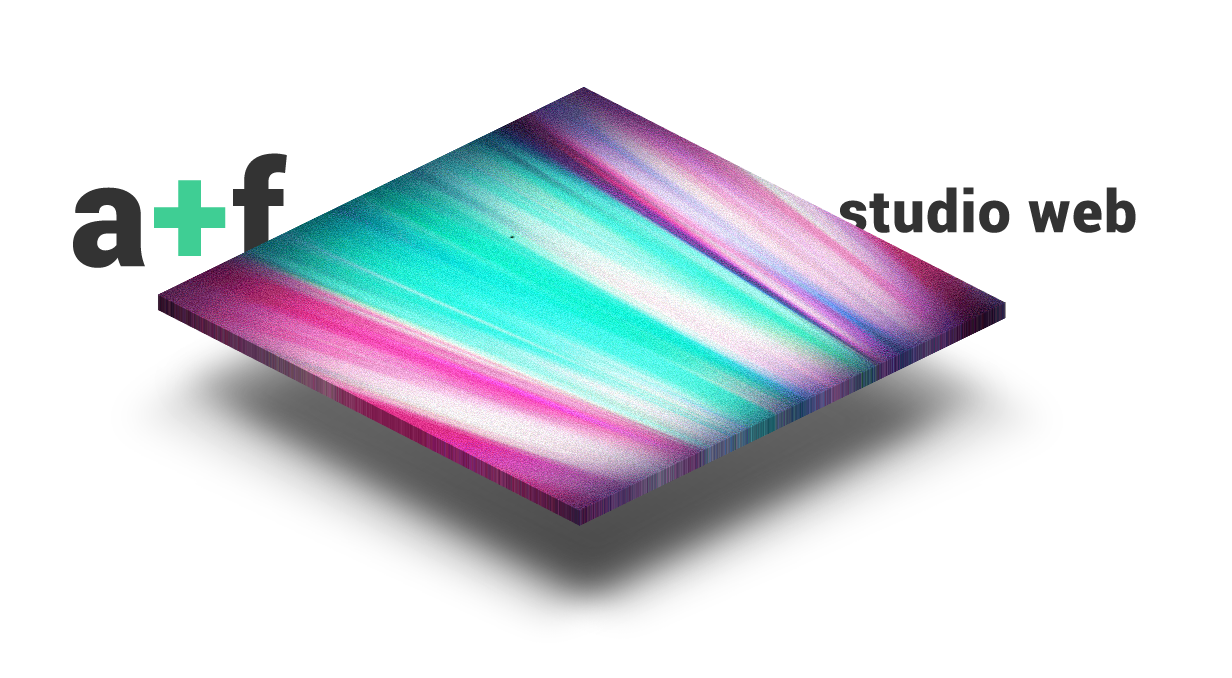
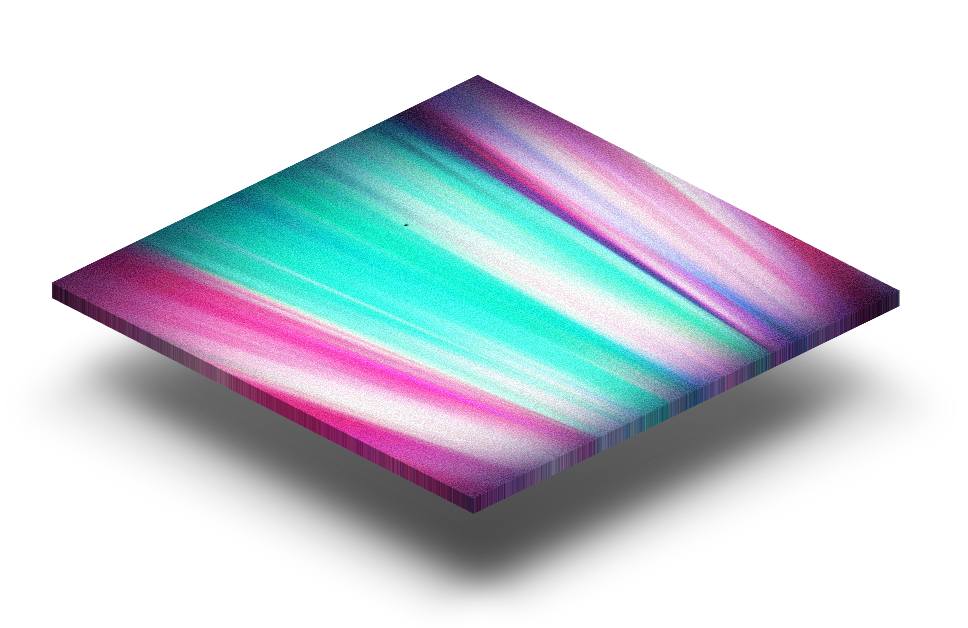
uui

diff --git a/css/bundle-sass.css b/css/bundle-sass.css
@@ -1,1 +1,1 @@
-header h1,header h1 span,header span.title{transition:all .4s ease-in}#contact,footer{text-align:center}#contact #contact-form-btn:hover,#contact ul li a:hover{font-family:KatanasEdge}header{position:fixed;background:0 0;z-index:999999;width:100%;top:0;left:0;right:0;margin:auto;padding:20px 60px}header h1{opacity:0;font-size:4rem;margin-top:60px;margin-bottom:0;line-height:.6}@media (max-width:620px){header{padding:20px 0}header h1{font-size:3rem;margin-top:20px}}header h1 span{color:#3FCE94}header h1 a:hover{color:#333!important}header span.title{display:none;color:#333;font-size:50%;vertical-align:middle}#info,#savoir-faire{height:100vh;width:80%;margin:auto;position:relative}#info .info-wrapper,#savoir-faire .info-wrapper{display:-ms-flexbox;display:flex;-ms-flex-pack:distribute;justify-content:space-around}#info,#portfolio,#savoir-faire{display:none}#info .info-wrapper article,#savoir-faire .info-wrapper article{width:30%}#info .info-wrapper article p,#savoir-faire .info-wrapper article p{font-size:1.2vw;line-height:1.4}@media (max-width:768px){#info,#savoir-faire{height:auto}#info .info-wrapper,#savoir-faire .info-wrapper{-ms-flex-direction:column;flex-direction:column}#info .info-wrapper article,#savoir-faire .info-wrapper article{width:100%}#info .info-wrapper article p,#savoir-faire .info-wrapper article p{font-size:1rem;float:none;width:100%}}#info .info-wrapper article p span,#savoir-faire .info-wrapper article p span{font-size:1.4vw;color:#3FCE94}@media (max-width:768px){#info .info-wrapper article p span,#savoir-faire .info-wrapper article p span{font-size:1rem}}#info .info-wrapper article p span.green,#savoir-faire .info-wrapper article p span.green{font-size:1.4vw;color:#3FCE94;background:0 0;padding:0;float:none}#contact h4,#info .info-wrapper article h4,#savoir-faire .info-wrapper article h4,body,html{color:#333}#info .info-wrapper article:last-child,#savoir-faire .info-wrapper article:last-child{margin-top:25vh}@media (max-width:768px){#info .info-wrapper article p span.green,#savoir-faire .info-wrapper article p span.green{font-size:1rem}#info .info-wrapper article h4,#savoir-faire .info-wrapper article h4{width:100%}#info .info-wrapper article:last-child,#savoir-faire .info-wrapper article:last-child{margin-top:0}}#contact,#portfolio,main{margin:auto}#portfolio{width:80%;position:relative}#portfolio div.row{display:-ms-flexbox;display:flex;-ms-flex-pack:justify;justify-content:space-between}#portfolio div.row article{width:30%}#portfolio div.row article h5{font-size:1.2vw}#portfolio div.row article h5 span{font-weight:400;display:inline-block}@media (max-width:768px){#portfolio div.row{-ms-flex-direction:column;flex-direction:column}#portfolio div.row article{width:100%}#portfolio div.row article h5{font-size:1rem}#portfolio div.row article h5 span{font-size:.8rem}}#portfolio div.row article img{width:100%}@media (max-width:768px) and (orientation:landscape){#portfolio div.row article img{width:70%}}#portfolio div.row article:nth-child(even){padding-top:20vh}footer{display:none;font-size:.7rem;position:absolute;left:0;bottom:20px;width:100%}#contact{display:none}#contact .parallax{height:100%;position:absolute}#contact h4{font-size:3vw}#contact ul{font-size:2.5vw;line-height:1.5}@media (max-width:768px){#portfolio div.row article:nth-child(even){padding-top:0}#contact ul{font-size:1rem}}#contact ul li:last-child{font-size:80%}#contact #contact-form-btn{display:none;font-size:2rem;background:#333;color:#3FCE94;padding:4px 10px;margin-top:40px}@media (max-width:768px){#contact #contact-form-btn{font-size:1rem}}#contact #contact-form-btn:hover{padding:10px}@font-face{font-family:KatanasEdge;src:url(../fonts/KatanasEdge/KatanasEdge.eot);src:url(../fonts/KatanasEdge/KatanasEdge.woff) format("woff")}body,html{margin:0;padding:0;box-sizing:border-box;font-size:16px;font-family:Roboto,sans-serif;background:#EBEBEB}ul{list-style:none;padding:0}a{color:inherit;text-decoration:none}a:hover{color:#3FCE94}.parallax{width:100%;height:100vh;position:relative}main #intro i,main #intro img{position:absolute;z-index:99999;left:50%;transform:translate(-50%,-50%)}@media all and (max-width:480px){.parallax{height:30vh}}main section{padding:20vh 60px 0}main section h3{font-size:2.5vw;margin:0;line-height:1}@media (max-width:768px){main section{padding:20vh 0 0}main section h3{font-size:2.5rem}}main section h4{font-size:1.4vw;line-height:normal;color:#fff}@media (max-width:768px){main section h4{font-size:1rem}}main #intro i{color:#333;font-size:3vw;top:95%}main #intro img{width:100%;top:50%}main #intro .parallax{height:870px}
+#contact #contact-form-btn:hover,#contact ul li a:hover{font-family:KatanasEdge}#contact,footer,main #intro h1{text-align:center}header h1,header h1 span,header span.title,main #intro h1 span,main #intro h1 span.title{transition:all .4s ease-in}header{position:fixed;background:0 0;z-index:999999;width:100%;top:0;left:0;right:0;margin:auto;padding:20px 60px}header h1{opacity:0;font-size:4rem;margin-top:60px;margin-bottom:0;line-height:.6}@media (max-width:620px){header{padding:20px 0}header h1{font-size:3rem;margin-top:20px}}header h1 span{color:#3FCE94}header h1 a:hover{color:#333!important}header span.title{display:none;color:#333;font-size:50%;vertical-align:middle}#info,#savoir-faire{height:100vh;width:80%;margin:auto;position:relative}#info .info-wrapper,#savoir-faire .info-wrapper{display:-ms-flexbox;display:flex;-ms-flex-pack:distribute;justify-content:space-around}#info,#portfolio,#savoir-faire{display:none}#info .info-wrapper article,#savoir-faire .info-wrapper article{width:30%}#info .info-wrapper article p,#savoir-faire .info-wrapper article p{font-size:1.2vw;line-height:1.4}@media (max-width:768px){#info,#savoir-faire{height:auto}#info .info-wrapper,#savoir-faire .info-wrapper{-ms-flex-direction:column;flex-direction:column}#info .info-wrapper article,#savoir-faire .info-wrapper article{width:100%}#info .info-wrapper article p,#savoir-faire .info-wrapper article p{font-size:1rem;float:none;width:100%}}#info .info-wrapper article p span,#savoir-faire .info-wrapper article p span{font-size:1.4vw;color:#3FCE94}@media (max-width:768px){#info .info-wrapper article p span,#savoir-faire .info-wrapper article p span{font-size:1rem}}#info .info-wrapper article p span.green,#savoir-faire .info-wrapper article p span.green{font-size:1.4vw;color:#3FCE94;background:0 0;padding:0;float:none}#info .info-wrapper article h4,#savoir-faire .info-wrapper article h4{color:#333}#info .info-wrapper article:last-child,#savoir-faire .info-wrapper article:last-child{margin-top:25vh}@media (max-width:768px){#info .info-wrapper article p span.green,#savoir-faire .info-wrapper article p span.green{font-size:1rem}#info .info-wrapper article h4,#savoir-faire .info-wrapper article h4{width:100%}#info .info-wrapper article:last-child,#savoir-faire .info-wrapper article:last-child{margin-top:0}}#contact,#portfolio,main{margin:auto}#portfolio{width:80%;position:relative}#contact,footer{position:absolute}#portfolio div.row{display:-ms-flexbox;display:flex;-ms-flex-pack:justify;justify-content:space-between}#portfolio div.row article{width:30%}#portfolio div.row article h5{font-size:1.2vw}#portfolio div.row article h5 span{font-weight:400;display:inline-block}@media (max-width:768px){#portfolio div.row{-ms-flex-direction:column;flex-direction:column}#portfolio div.row article{width:100%}#portfolio div.row article h5{font-size:1rem}#portfolio div.row article h5 span{font-size:.8rem}}#portfolio div.row article img{width:100%}@media (max-width:768px) and (orientation:landscape){#portfolio div.row article img{width:70%}}#portfolio div.row article:nth-child(even){padding-top:20vh}footer{display:none;font-size:1vw;left:0;bottom:20px;width:100%}@media (max-width:768px) and (orientation:landscape){footer{font-size:2vw}}@media (max-width:768px){#portfolio div.row article:nth-child(even){padding-top:0}footer{font-size:.6rem}}#contact{display:none;left:50%;top:50%;transform:translate(-50%,-50%);padding:0}#contact .parallax{height:100%;position:absolute}#contact h4{color:#333;font-size:3vw;margin:0}#contact ul{font-size:2.5vw;line-height:1.5}@media (max-width:768px){#contact ul{font-size:1rem}}#contact ul li:last-child{font-size:80%}#contact #contact-form-btn{display:none;font-size:2rem;background:#333;color:#3FCE94;padding:4px 10px;margin-top:40px}@media (max-width:768px){#contact #contact-form-btn{font-size:1rem}}#contact #contact-form-btn:hover{padding:10px}@font-face{font-family:KatanasEdge;src:url(../fonts/KatanasEdge/KatanasEdge.eot);src:url(../fonts/KatanasEdge/KatanasEdge.woff) format("woff")}body,html{margin:0;padding:0;box-sizing:border-box;font-size:16px;font-family:Roboto,sans-serif;color:#333;background:#EBEBEB}ul{list-style:none;padding:0}a{color:inherit;text-decoration:none}a:hover{color:#3FCE94}.parallax{width:100%;height:100vh;position:relative}main #intro h1,main #intro i,main #intro img{position:absolute;left:50%;transform:translate(-50%,-50%)}@media all and (max-width:480px){.parallax{height:30vh}}main section{padding:20vh 60px 0}main section h3{font-size:2.5vw;margin:0;line-height:1}@media (max-width:768px){main section{padding:20vh 0 0}main section h3{font-size:2.5rem}}main section h4{font-size:1.4vw;line-height:normal;color:#fff}@media (max-width:768px){main section h4{font-size:1rem}}main #intro h1{font-size:10vw;padding:0;margin:0;width:100%;z-index:99999;top:50%}main #intro h1 span{color:#3FCE94}main #intro h1 a:hover{color:#333!important}main #intro h1 span.title{color:#333}main #intro i{color:#333;font-size:3vw;z-index:99999;top:95%}main #intro img{width:100%;max-width:1200px;z-index:-1;top:50%}main #intro .parallax{height:870px}

diff --git a/js/main.js b/js/main.js
@@ -37,6 +37,9 @@ $(document).ready(function () {
       $('h1').css('opacity', '1');
       $('#intro').hide();
       $('#info').show();
+      $('html, body').animate({
+        scrollTop: $('#info').offset().top - 20
+    }, 'slow');
       $('#savoir-faire').hide();
       $('#portfolio').hide();
       $('#contact').hide();
@@ -48,6 +51,9 @@ $(document).ready(function () {
       $('#intro').hide();
       $('#info').hide();
       $('#savoir-faire').show();
+      $('html, body').animate({
+        scrollTop: $('#savoir-faire').offset().top - 20
+    }, 'slow');
       $('#portfolio').hide();
       $('#contact').hide();
       $('footer').hide();
@@ -59,6 +65,9 @@ $(document).ready(function () {
       $('#info').hide();
       $('#savoir-faire').hide();
       $('#portfolio').show();
+      $('html, body').animate({
+        scrollTop: $('#portfolio').offset().top - 20
+    }, 'slow');
       $('#contact').hide();
       $('footer').hide();
     })
@@ -70,6 +79,9 @@ $(document).ready(function () {
       $('#savoir-faire').hide();
       $('#portfolio').hide();
       $('#contact').show();
+      $('html, body').animate({
+        scrollTop: $('#contact').offset().top - 20
+    }, 'slow');
       $('footer').show();
     })
 

diff --git a/sass/main.scss b/sass/main.scss
@@ -78,6 +78,41 @@ main {
     }
   }
   #intro {
+    h1 {
+      font-size: 10vw;
+      padding: 0;
+      margin: 0;
+      text-align: center;
+      width: 100%;
+      position: absolute;
+      z-index: 99999;
+      left: 50%;
+      top: 50%;
+      transform: translate(-50%, -50%); /* Yep! */
+      span {
+        color: $secondColor;
+        -webkit-transition: all 400ms ease-in;
+  -moz-transition: all 400ms ease-in;
+  -ms-transition: all 400ms ease-in;
+  -o-transition: all 400ms ease-in;
+  transition: all 400ms ease-in;
+      }
+      a:hover {
+        color: $mainColor!important;
+      }
+    span.title {
+      color: $mainColor;
+      // font-size: 50%;
+      // vertical-align: middle;
+      -webkit-transition: all 400ms ease-in;
+  -moz-transition: all 400ms ease-in;
+  -ms-transition: all 400ms ease-in;
+  -o-transition: all 400ms ease-in;
+  transition: all 400ms ease-in;
+      span {
+    }
+  }
+    }
     i {
       color: $mainColor;
       font-size: 3vw;
@@ -89,8 +124,9 @@ main {
     }
     img {
       width: 100%;
+      max-width: 1200px;
       position: absolute;
-      z-index: 99999;
+      z-index: -1;
       left: 50%;
       top: 50%;
       transform: translate(-50%, -50%); /* Yep! */

diff --git a/index.html b/index.html
@@ -66,9 +66,13 @@
     <!-- MAIN -->
     <main>
 
+        <!-- INTRO -->
         <section id="intro" class="animate" data-animate="fadeIn" data-duration="2.0s" data-delay="0.1s" data-offset="0">
 
-        <img src="img/colors.png" alt="">
+            <h1>a<span>+</span>f <span class="title">studio web</span>
+            </h1>
+
+            <img class="animated fadeIn" src="img/colors.png" alt="">
 
         </div>
 
@@ -269,6 +273,17 @@
 <script>
     // SCROLLA
     $('.animate').scrolla();
+</script>
+
+<!-- GOOGLE ANALYTICS -->
+<script>
+  (function(i,s,o,g,r,a,m){i['GoogleAnalyticsObject']=r;i[r]=i[r]||function(){
+  (i[r].q=i[r].q||[]).push(arguments)},i[r].l=1*new Date();a=s.createElement(o),
+  m=s.getElementsByTagName(o)[0];a.async=1;a.src=g;m.parentNode.insertBefore(a,m)
+  })(window,document,'script','https://www.google-analytics.com/analytics.js','ga');
+
+  ga('create', 'UA-99333940-1', 'auto');
+  ga('send', 'pageview');
 </script>
 
 </body>

diff --git a/sass/partials/_footer.scss b/sass/partials/_footer.scss
@@ -3,12 +3,15 @@
 footer {
   display: none;
   text-align: center;
-  font-size: .7rem;
+  font-size: 1vw;
   position: absolute;
   left: 0;
   bottom: 20px;
   width: 100%;
-  @media (max-width: 768px) {
-
+  @media (max-width: 768px) and (orientation:landscape) {
+    font-size: 2vw;
    }
+   @media (max-width: 768px) {
+     font-size: .6rem;
+    }
 }

diff --git a/sass/partials/_contact.scss b/sass/partials/_contact.scss
@@ -2,7 +2,12 @@
 
 #contact {
   display: none;
+  position: absolute;
+  left: 50%;
+  top: 50%;
+  transform: translate(-50%, -50%); /* Yep! */
   margin: auto;
+  padding: 0;
   text-align: center;
   // height: 100vh;
   .parallax {
@@ -12,6 +17,7 @@
   h4 {
     color: $mainColor;
     font-size: 3vw;
+    margin: 0;
   }
   ul {
     font-size: 2.5vw;

diff --git a/css/overlay.css b/css/overlay.css
@@ -91,6 +91,7 @@ transition: all 400ms ease-in;
     text-align: center;
     list-style: none;
     padding: 0;
+    margin: 0;
     display: flex;
     justify-content: space-between;
 }

diff --git a/sass/partials/_header.scss b/sass/partials/_header.scss
@@ -50,7 +50,5 @@ transition: all 400ms ease-in;
 -ms-transition: all 400ms ease-in;
 -o-transition: all 400ms ease-in;
 transition: all 400ms ease-in;
-    span {
-  }
 }
 }
